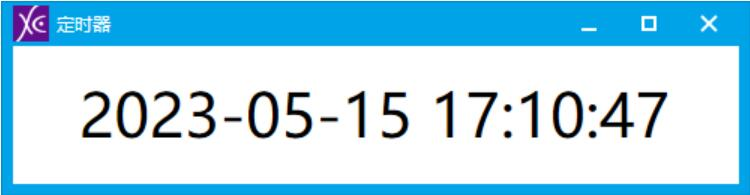
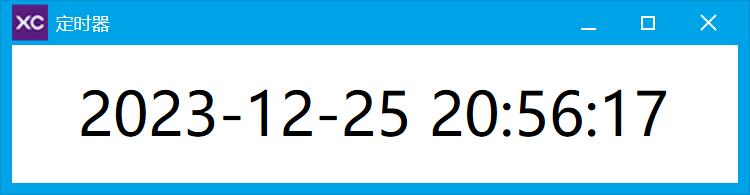
时钟

diff --git a/Timer/Timer.go b/Timer/Timer.go
@@ -18,6 +18,8 @@ var (
 
 func main() {
 	a = app.New(true)
+	a.EnableDPI(true)
+	a.EnableAutoDPI(true)
 	w = window.New(0, 0, 500, 130, "定时器", 0, xcc.Window_Style_Default)
 
 	text = widget.NewShapeText(50, 50, 400, 50, time.Now().Format("2006-01-02 15:04:05"), w.Handle)
